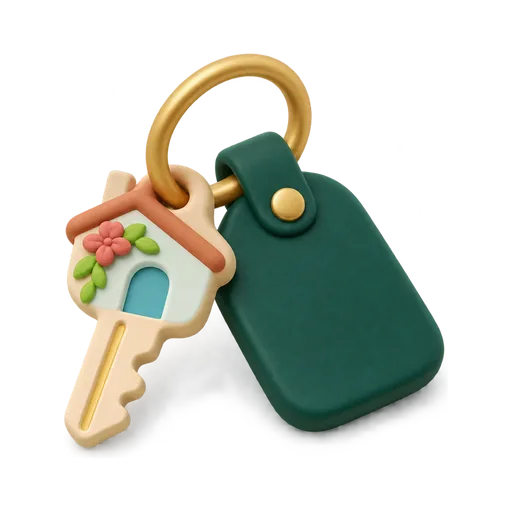
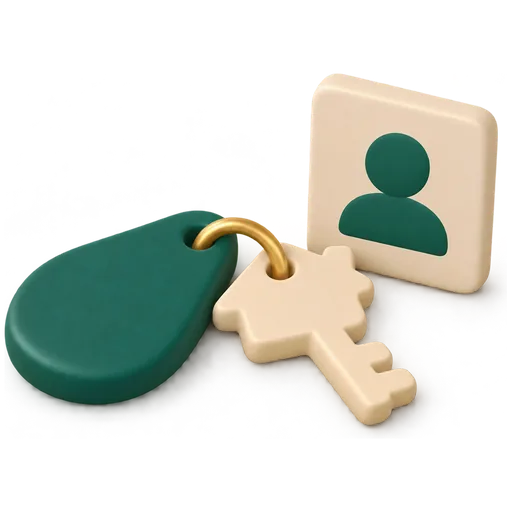
Görev 44.3: Villalar ve Hesap başlık görselleri yeniden
- Takvim başlığıyla aynı stil ve oran: az sayıda büyük, tombul parça, yere
  oturan, yatay. codex exec ile CODEX_3D_GORSELLER.md ortak stili + kompozisyon
  notu; istekler CODEX_3D_GORSELLER_3.md'de (Görev 44.3 eki).
- baslik-villalar: tek tombul villa, havuz, saksıda zeytin, kum rengi zemin.
  İlk tur (a–c) çok genişti; ikinci tur (d–f) ek yönlendirmeyle. Seçilen e,
  içerik oranı 1,31 (Takvim 1,30).
- baslik-hesap: yatık anahtarlık + ev biçimli anahtar + dik profil kartı.
  Seçilen a, oran 1,38 (eskisi dikey, 0,95).
- Adaylar www/img/3d/aday/ (webp 512 / 256); karşılaştırma
  docs/qa/gorev44/secim-villalar.jpg, secim-hesap.jpg. Başlıklardaki
  --ust / --alt / --sol yeni görsellere göre.
- Test: üç sekmede oran 1,2–1,4 (alfa kanalından), dolu yükseklik farkı
  ≤ %10, üst çubuğa en az 12 pt.

diff --git a/www/index.html b/www/index.html
@@ -2495,7 +2495,7 @@
     <!-- 32.7: çift satış riski (kapatılamaz; çözülünce kalkar) -->
     <div id="cakismaKartlar" class="hide"></div>
     <!-- 18.15: başlığın sağında dolu / boş etiketleri (dar ekranda alta iner); altında yalnız "+ Villa ekle" -->
-    <div class="anaBas"><h1 class="h1G" style="--ust:.098; --alt:.098"><span class="baslikGK"><img class="baslikG" src="img/3d/baslik-villalar-512.webp" srcset="img/3d/baslik-villalar-256.webp 256w, img/3d/baslik-villalar-512.webp 512w" sizes="(max-width:380px) 64px, 88px" alt="" aria-hidden="true" width="256" height="256" loading="lazy" decoding="async" onerror="this.remove()"></span><span>Villalarım</span></h1></div>
+    <div class="anaBas"><h1 class="h1G" style="--ust:.125; --alt:.127; --sol:.01"><span class="baslikGK"><img class="baslikG" src="img/3d/baslik-villalar-512.webp" srcset="img/3d/baslik-villalar-256.webp 256w, img/3d/baslik-villalar-512.webp 512w" sizes="(max-width:380px) 64px, 88px" alt="" aria-hidden="true" width="256" height="256" loading="lazy" decoding="async" onerror="this.remove()"></span><span>Villalarım</span></h1></div>
     <!-- 37.2: "+ Villa ekle" solda, dolu / boş etiketleri aynı satırın sağ ucunda -->
     <div class="anaSatir"><div class="hapSira hide" id="anaHap" role="toolbar"></div><div class="sm muted" id="ozet"></div></div>
     <!-- 40.4: "Bugün ve yarın" kartı yerine villa arama (4 ve üstü villada) -->
@@ -2552,7 +2552,7 @@
 
   <!-- HESAP SEKMESİ -->
   <div id="hesapEkran" class="hide sekmeEkran">
-    <h1 class="h1G" style="--ust:.104; --alt:.105; --sol:.125"><span class="baslikGK"><img class="baslikG" src="img/3d/baslik-hesap-512.webp" srcset="img/3d/baslik-hesap-256.webp 256w, img/3d/baslik-hesap-512.webp 512w" sizes="(max-width:380px) 64px, 88px" alt="" aria-hidden="true" width="256" height="256" loading="lazy" decoding="async" onerror="this.remove()"></span><span>Hesap</span></h1>
+    <h1 class="h1G" style="--ust:.143; --alt:.145; --sol:.008"><span class="baslikGK"><img class="baslikG" src="img/3d/baslik-hesap-512.webp" srcset="img/3d/baslik-hesap-256.webp 256w, img/3d/baslik-hesap-512.webp 512w" sizes="(max-width:380px) 64px, 88px" alt="" aria-hidden="true" width="256" height="256" loading="lazy" decoding="async" onerror="this.remove()"></span><span>Hesap</span></h1>
     <div style="margin-top:1.25rem">
     <!-- 29.3: Yönetim bölümü yalnız yöneticiye / onaycıya JavaScript ile eklenir (diğer kullanıcılarda DOM'da hiç yok) -->
     <div id="yonetimYer"></div>

diff --git a/www/sw.js b/www/sw.js
@@ -3,7 +3,7 @@
 
 // Sürüm: her yayında artırılır. Dosya değişince telefonlar yeni servisi kurar;
 // açılışta eski sürümlerden kalan önbellekler silinir, böylece eski ekran kalmaz.
-var SURUM = "vt-2026-11-25-44-2";
+var SURUM = "vt-2026-11-25-44-3";
 
 self.addEventListener("install", function (e) {
   self.skipWaiting();

diff --git a/docs/CODEX_3D_GORSELLER_3.md b/docs/CODEX_3D_GORSELLER_3.md
@@ -48,3 +48,33 @@ Var olan görsellerle eşlenen başlıklar (yeni çizim yok):
 | Teklifler | `teklif` (Görev 40.2'den beri `bolum-teklif`) |
 | Fotoğraflar | `sh-foto` |
 | Misafir kartı: Konaklamalar | `misafirler-bos` |
+
+## Görev 44.3 eki: Villalar ve Hesap başlık görselleri yeniden
+
+Eski `baslik-villalar` (iki villa, havuz, saksılar, şezlonglar) küçükte kalabalıktı; `baslik-hesap` (anahtarlık) dikey ve havada asılı
+duruyordu (içerik oranı 0,95). Referans: Takvim başlık görseli (`baslik-takvim`: takvim + valiz) ve `takvim-bos` (takvim + güneş
+gözlüğü + güneş): az sayıda büyük, tombul parça, yere oturan, yatay.
+
+Aynı yöntem: "Ortak stil" paragrafı `docs/CODEX_3D_GORSELLER.md`'den birebir, ardından aşağıdaki kompozisyon notu ve tarif. Her görsel
+için 3 aday (`-a`, `-b`, `-c`) ayrı `codex exec` ile çizildi; adaylar `www/img/3d/aday/` klasöründe (webp). En iyisi uygulamada.
+
+Ortak stilin ardına eklenen not (her istekte aynı):
+
+> Composition must be wide and grounded: overall visible content about 1.3 times wider than tall, all objects resting on an invisible floor with one soft contact shadow, like a still life on a table. Same chunky clay style, camera angle and proportions as a desk calendar with a small suitcase next to it. Few large simple shapes, very little fine detail, readable at 64 px.
+
+| Dosya | Nerede | Tarif |
+|---|---|---|
+| `baslik-villalar.png` | Villalarım sekme başlığı | One single chunky Mediterranean villa: cream walls, soft terracotta roof, deep green door and shutters, only a few windows, no ornaments. A small turquoise pool in front on the right, one round olive tree in a pot on the left. Everything sits on one low, rounded sand-colored base slab. |
+| `baslik-hesap.png` | Hesap sekme başlığı | Three pieces lying on a table, horizontal composition: a deep-green leather key fob lying flat, a cream house-shaped key attached to it with a gold ring, also lying down, and beside them a small upright rounded cream profile card showing a simple green faceless person silhouette, no text. The key and fob lie on the table, they do not hang vertically. |
+
+**Sonuç (Görev 44.3):**
+
+- **`baslik-hesap`:** a, b, c çizildi. Seçilen **a**: içerik oranı 1,38; anahtar ev biçimli ve yatık. b 1,41 ve c 1,58 sınırı aşıyor.
+- **`baslik-villalar`, ilk tur:** a, b, c çok genişti (oran 1,50 / 1,44 / 1,72; havuz ve zemin yana yayılıyor).
+- **`baslik-villalar`, ikinci tur:** d, e, f. Tarifin sonuna şu eklendi:
+  > Keep the whole group compact: the villa is two storeys tall, the pool is small and tucked close in front of it, the base slab is only slightly wider than the house, so the overall visible content (including the soft shadow) is about 1.3 times wider than tall, not more.
+
+  Oranlar 1,23 / 1,31 / 1,36. Seçilen **e**: oranı Takvim'le (1,30) aynı, pencere az.
+- **Adaylar:** `www/img/3d/aday/<ad>-<harf>-512.webp` ve `-256.webp`. Başka biri seçilirse dosya adı değiştirilerek kullanılır.
+  Başlıktaki `--ust` / `--alt` / `--sol` değerleri görselin şeffaf paylarına göre yeniden ölçülmeli.
+- **Karşılaştırma:** `docs/qa/gorev44/secim-villalar.jpg`, `secim-hesap.jpg`.
